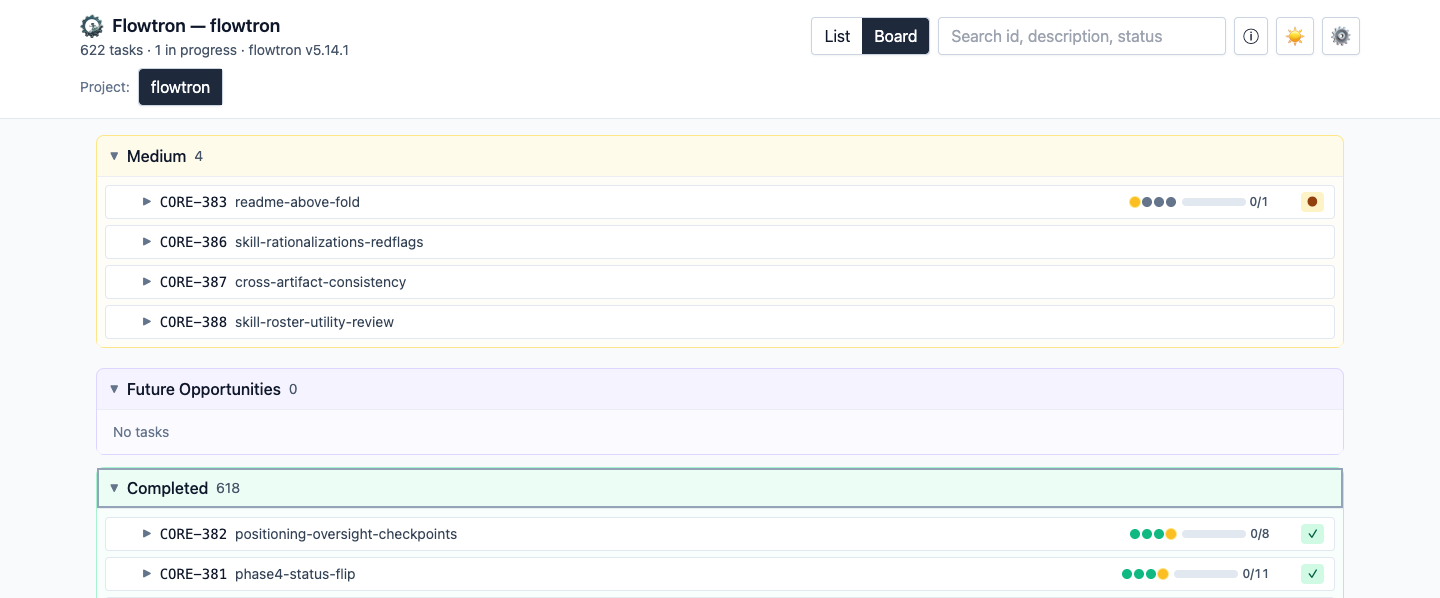
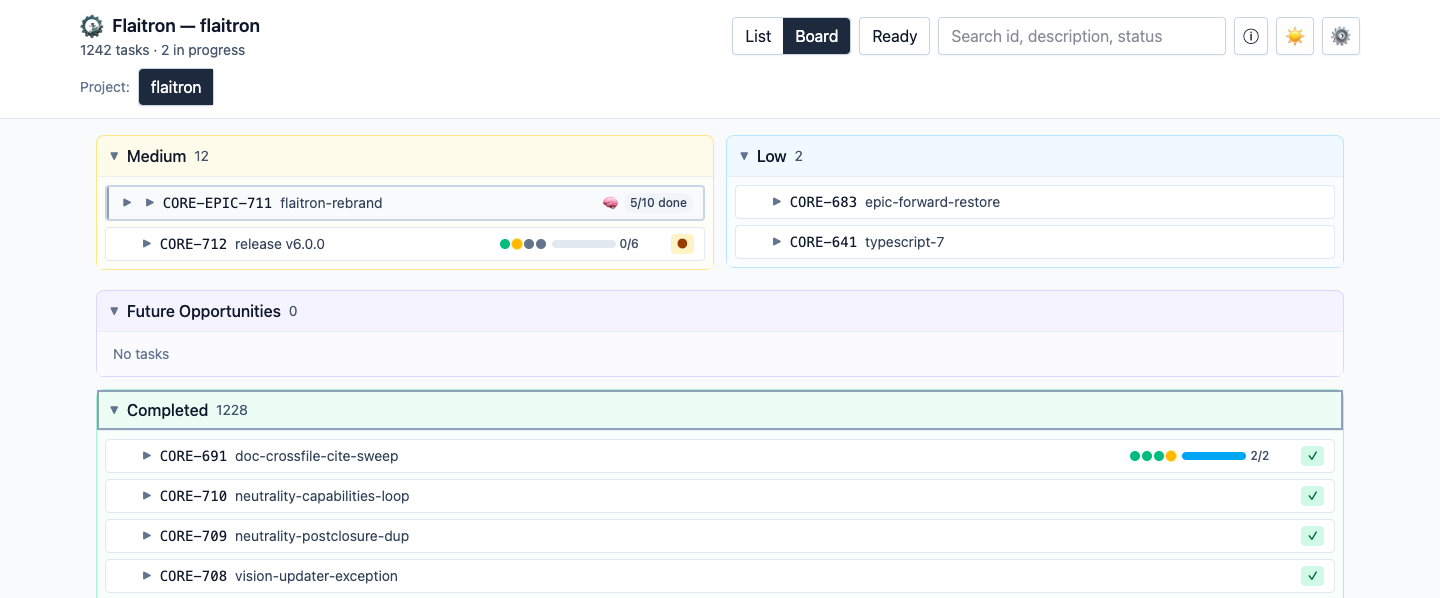
docs: CORE-711.9 — full-repo flaitron sweep
Text scan found no unfenced flowtron (CORE-711.4 had covered it); the
one live miss was the README hero viz-board.png, re-captured on
flaitron. Adds the canonical README "Formerly flowtron" note and links
VERSION-HISTORY, HARNESS-SURVEY and CODEX-VERIFICATION to it.

diff --git a/.flaitron/tasknote/archive/core/CORE-711.9.md b/.flaitron/tasknote/archive/core/CORE-711.9.md
@@ -1,0 +1,164 @@
+---
+title: full-repo flaitron sweep
+status: completed
+tags: []
+created: 2026-10-04
+due:
+related-tasks: [CORE-EPIC-711, CORE-711.4, CORE-711.5, CORE-712, CORE-711.N]
+touches:
+  - README.md
+  - docs/VERSION-HISTORY.md
+  - docs/CODEX-VERIFICATION.md
+  - docs/HARNESS-SURVEY.md
+  - .flaitron/screenshots/viz-board.png
+  - .flaitron/PLAN.md
+---
+
+# CORE-711.9 | full-repo flaitron sweep
+
+[← PLAN.md](../PLAN.md) · ✅ Completed 2026-10-04 · 🔗 [[CORE-EPIC-711]] · [[CORE-711.4]] · [[CORE-712]]
+
+## 🎯 Goal
+
+Every tracked file — text and image — is free of live `flowtron` references outside the deliberate fences, and one canonical "formerly flowtron" note in `README.md` is the place other surfaces point to.
+
+## ✅ Acceptance
+
+- [x] README carries one canonical note: a one-line pointer under the tagline linking to a `### Formerly flowtron` heading in §Version that holds the rename sentence — `grep -c '^### Formerly flowtron$' README.md` = 1 and `grep -c '(#formerly-flowtron)' README.md` = 1
+- [x] The surfaces that must clarify the old name point at that anchor: VERSION-HISTORY header, CODEX-VERIFICATION header, HARNESS-SURVEY header — `grep -l 'README.md#formerly-flowtron' docs/VERSION-HISTORY.md docs/CODEX-VERIFICATION.md docs/HARNESS-SURVEY.md | wc -l` = 3
+- [x] README hero `.flaitron/screenshots/viz-board.png` re-captured from an isolated single-project workspace: renders flaitron, no other project names, 1440×598 — `file .flaitron/screenshots/viz-board.png` + `👁` (image content is not grep-able)
+- [x] No unfenced text `flowtron` in the tree — `git grep -il flowtron -- ':!.flaitron/tasknote/archive' ':!.flaitron/PLAN-ARCHIVE.md'` prints exactly the Discovery Notes inventory (20 files, `README.md` already among them) plus this note once tracked; each added hit is the canonical note or a pointer — `judgment` on the residual list
+- [x] CI drift job's local run stays green (Pair Q link/path resolution covers the new anchors) — the `drift` job's `run:` blocks under `bash -e` → 0
+
+## 🧩 Subtasks
+
+- [x] README: one-line note under the tagline; turn §Version's rename sentence into `### Formerly flowtron`
+- [x] Pointers: VERSION-HISTORY L3 (link its existing parenthetical), CODEX-VERIFICATION + HARNESS-SURVEY headers (one sentence each)
+- [x] Re-capture `viz-board.png` per CORE-383's recipe (isolated workspace symlink → `FLAITRON_VIZ_WORKSPACE`, dev server :5120, Playwright 1440×598, Completed expanded); stop the server
+- [x] Residual grep + CI drift job locally
+
+## 🔗 Related
+
+- [[CORE-EPIC-711]] — parent epic
+- [[CORE-711.4]] — ran the 111-file text sweep; its §Fence is the baseline this task re-checks
+- [[CORE-711.5]] — GitHub + folder renames (predecessor; URL and path now final)
+- [[CORE-712]] — v6.0.0 cut, blocked-by this task
+- [[CORE-711.N]] — terminal audit; repeats the zero-stray grep
+
+---
+
+## 📝 Phase 1: Discovery
+
+- [x] Reviewed the task entry in PLAN.md
+
+- [x] **Relevance Assessment**
+
+  **Verdict:** Proceed
+  **Rationale:** .5 closed (repo URL + folder final). The text sweep in .4 left no unfenced text hit, but the image surface was never checked — the README hero screenshot still renders the old name — and the canonical transition note does not exist yet.
+
+- [x] Read relevant source files — when the read set is broad or its shape is unknown, consider isolating the search in a **probe** (`templates/subagent-probe-template.md`) and recording only its distilled return in Discovery Notes
+
+- [x] **Best Practices Review** — for code or module-boundary work, identified touched responsibilities, dependency direction, existing abstractions, nearby duplication, and any required in-scope refactor or deferred cleanup (otherwise `N/A` with reason) — `N/A`, docs + one image asset; no code
+
+- [x] **Archive skim** — skim `.flaitron/tasknote/archive/<area>/` for prior tasknotes that touched the source paths in scope (prefer YAML `touches:` when set); also follow Related / `supersedes` / ⚠ pointers; when the grep returns more than a handful of notes (~3 is a fair line), prefer handing the reading to a **probe**; log relevant findings in Discovery Notes before re-interpreting the task; an absent or empty `archive/<area>/` is a prompt to re-check `<area>` against the README table before logging "no prior tasknotes" — a derived-and-wrong folder is indistinguishable from a genuinely empty one
+
+- [x] **Drift check** — file paths, line numbers, function names, and root-cause hypotheses cited in the task description still match current code, **and** the plan this tasknote is forming neither contradicts a SPEC contract nor diverges from its `PLAN.md` line (read both, don't recall them); flag any drift before re-interpreting the task
+
+- [x] Asked clarifying questions OR logged "No clarifications needed" with explicit assumptions
+
+- [x] Subtasks above populated with concrete, ordered steps, and YAML `touches:` declared with the paths this task expects to edit (omit only on a task with no file deliverable)
+
+**Discovery Notes:**
+
+**Text inventory.** `git grep -Il -i flowtron` outside `.flaitron/tasknote/archive/` + `PLAN-ARCHIVE.md` → 20 files; no tracked filename contains `flowtron`. Every hit falls inside CORE-711.4's §Fence or the PLAN line's fence list:
+- PLAN.md — open CORE-711 rows (describe the rename) + closed rows.
+- CORE-712.md — another task's active note; its hits are the rename's own tag-message draft.
+- VERSION-HISTORY entries; MIGRATION v5.x + v4.x recipes and the retired-skill `ft-flowtron` row; CONTEXT-BUDGET L259 + ci.yml L156 (`ft-flowtron`, a retired skill name).
+- ci.yml L436/462-463 (Pair Q pre-rename resolution); step-7.1-mirror-pairs L244 (its Reads: line).
+- SECURITY L180/225, `/ft-update` skill + command (pre-rename layout stop); PLATFORMS L152 ("`.flowtron/core/` before v6.0.0").
+- `tools/update-adopters*` (pre-rename reads); `viz/src/parser*`, `SPEC/plan-parser.md`, `SPEC/fixtures/plan/exclusions.md` (`flowtron v5.2.0 bump` legacy fixture).
+- `docs/CODEX-VERIFICATION.md` (dated CORE-677 receipt, pinned to v5.33.0 SHA `7b35a17`) and `docs/HARNESS-SURVEY.md` dated passes — .4 fenced both wholesale.
+
+**Image inventory** (not reachable by grep; viewed each): `LOGO.webp`, `viz/public/LOGO.webp`, `viz/public/favicon.png`, `brand/*.svg` carry no wordmark. **`.flaitron/screenshots/viz-board.png` — the README hero image — renders "Flowtron — flowtron", project chip `flowtron`, "flowtron v5.14.1", 622 tasks.** Live, user-facing, and stale; the README caption beside it says "flaitron's own PLAN.md".
+
+**Residual live-path gap.** CODEX-VERIFICATION's §Reproduce (L154-236) and §"Reproduce the fixture and prompts" are runnable recipes; their local clone path `/Users/fakeneuron/Code/flowtron` (L48, L173) stopped resolving at .5. Their `.flowtron/core` adopter paths are correct *at the pinned v5.33.0 SHA* the receipt reproduces.
+
+**Transition note today.** README §Version (L325-330) already carries the rename sentence + MIGRATION link, but there is no single anchored note, and VERSION-HISTORY L3 / PLATFORMS L152 restate it inline with no pointer. The fenced dated docs (CODEX-VERIFICATION, HARNESS-SURVEY) have no pointer at all.
+
+**Archive skim.** `ls archive/core/` → 912 notes; area confirmed `CORE-*` → `archive/core/` from the README table. Sibling notes CORE-711.1–.5 read: .4 is load-bearing — perl sweep (`FLOWTRON`/`Flowtron`/`flowtron` → flaitron) over 111 files, sentinels `ft-flowtron`, `.flowtron/flowtron`, `flowtron v5.2.0 bump`; §Fence items 1-4 (VERSION-HISTORY entries, CODEX-VERIFICATION + HARNESS-SURVEY dated passes, archives, MIGRATION v4 + v6 recipe names). .2 fenced the parser fixture. CORE-712's park note: .9 exists because "no full-repo sweep had run" before the cut.
+
+**Drift check.** PLAN line matches the tree; .5 is closed. The fence list in the PLAN line omits two .4-approved fences — CODEX-VERIFICATION and HARNESS-SURVEY dated passes, and the `ft-flowtron` retired-skill name — which this task inherits rather than re-litigates. No SPEC contract touched (archive write-once honored).
+
+**Clarifications (AskUserQuestion, 2026-10-04).**
+- *Operator stance (governs every judgment call):* don't rewrite records from when the repo really was flowtron; every forward-facing document is fully rebranded; `flowtron` survives only where it clarifies the old name — **sparingly**.
+- Screenshot → operator deferred to judgment → **re-capture now**: it is the README hero, forward-facing, and contradicts its own caption.
+- CODEX-VERIFICATION → **pointer only**: one header line; body (incl. Reproduce clone paths) untouched.
+- Transition note → **top line + anchored `### Formerly flowtron` section** in §Version; other surfaces point at the anchor.
+- PLATFORMS L152 "(`.flowtron/core/` before v6.0.0)" stays — it is exactly the needed clarification (old symlink targets), and d43ad4d2 placed it deliberately. MIGRATION's v5.x section already names the old name in its heading; no pointer added there (sparing).
+
+## 🛠 Phase 2: Execution
+
+- [x] **Pattern survey** — extended an established pattern or justified a new shape; checked DRY and single-responsibility (SRP) boundaries; preferred composition when it reduced coupling — one canonical anchor + link pointers (DRY: the rename is stated once; VERSION-HISTORY's existing parenthetical became the link rather than a second statement); screenshot re-shot with CORE-383's reusable recipe
+
+- [x] **Minimal refactor gate** — refactored only for Acceptance or to prevent duplication, obscured responsibility, or a dependency-boundary violation in the touched path; recorded the reason and deferred unrelated cleanup — `N/A`, no refactor; dated-record bodies untouched per operator stance
+
+- [x] Implemented the minimal solution
+
+- [x] Updated/added tests for non-trivial behavior — `N/A`, markdown + one image asset
+
+**Implementation Notes:**
+
+- `README.md`: tagline gains `Formerly flowtron — [renamed in v6.0.0](#formerly-flowtron).`; §Version's rename sentence moves under a new `### Formerly flowtron` (old repo + dir names, the hard cut, "pre-rename records keep the old name", MIGRATION link).
+- Pointers (one clause each, linking `../README.md#formerly-flowtron`): VERSION-HISTORY L3 (existing parenthetical linked, no new mention), HARNESS-SURVEY header, CODEX-VERIFICATION header (names that its reproduce steps use the pinned v5.33.0 checkout's paths — the operator's "pointer only" choice).
+- Not touched (sparing): PLATFORMS L152 parenthetical; MIGRATION v5.x heading already names the old dir.
+- `viz-board.png` re-captured: isolated workspace `<scratchpad>/viz-workspace/flaitron → ~/Code/flaitron`, `FLAITRON_VIZ_WORKSPACE=… npm --prefix viz run dev`, Playwright 1440×598, Board view, Completed expanded (List view was rejected — it auto-expands CORE-EPIC-711, whose open rows quote `flowtron` paths). Result: "Flaitron — flaitron", 1242 tasks, single project chip, 71,733 B (was 64 KB). Drafts kept outside the repo in `~/Code/_screenshots/flaitron/`. Server stopped, browser closed.
+
+## 🧪 Phase 3: Testing & Linting
+
+- [x] Ran targeted test suite for changed code — `N/A`, markdown + image; CI drift job stands in (below)
+
+- [x] Ran lint/type-check on changed code — `git diff --check` → clean
+
+- [x] **Verification receipt** — recorded each Acceptance verify command in Testing Notes as `command → exit code`, with the first failure line when non-zero; and, for changed code, confirmed no avoidable duplication, dead code, unexplained complexity, unnecessary public-surface growth, or stale code-facing documentation (otherwise `N/A` with reason)
+
+- [x] **External review** — a context that did not write the diff graded it against `## ✅ Acceptance`, and every finding is recorded below with its disposition (**blocker** → back to Phase 2; **note** → fixed or filed). `N/A` with a one-line reason when the diff is too small to grade
+
+- [x] (frontend) Asked the user for visual confirmation (emphasized `👁 **CONFIRM**` ask on its own line) — asked at the 📦 gate for the re-captured hero image (no UI code changed)
+
+**Choosing a test strategy:** see SPEC.md §"🧪 Phase 3: Testing & Linting".
+
+**Testing Notes:**
+
+Receipts:
+- `grep -c '^### Formerly flowtron$' README.md` → 1; `grep -c '(#formerly-flowtron)' README.md` → 1
+- `grep -l 'README.md#formerly-flowtron' docs/VERSION-HISTORY.md docs/CODEX-VERIFICATION.md docs/HARNESS-SURVEY.md | wc -l` → 3
+- `file .flaitron/screenshots/viz-board.png` → PNG 1440 x 598; content viewed (Flaitron — flaitron, single project chip, no `flowtron` text) → 👁 at the gate
+- `git grep -il flowtron -- ':!.flaitron/tasknote/archive' ':!.flaitron/PLAN-ARCHIVE.md' | wc -l` → 20, same set as the Discovery inventory; `git diff -U0` added `flowtron` lines are only the README note + three pointers
+- CI `drift` job, 15 `run: |` blocks extracted from `ci.yml` and run under `bash -e` → 0 each (Pair Q resolves the new anchors)
+- `git diff --check` → clean
+
+Structural quality: no code; no duplication (the rename is stated once, other surfaces link to it).
+
+External review (`/code-review medium`): the reviewer read `origin/main...HEAD` + working tree, which is wider than this task's diff. Graded against Acceptance:
+- **note** — CORE-712's PLAN row `Blocked by [[CORE-711.5]] + [[CORE-711.9]]` and its frontmatter `blocked-by:` still list CORE-711.5 (closed), so viz shows a stale blocked chip. The text came from earlier commits, not this diff. SPEC/blocked.md §"Re-scope to blocked" lets a blocker's own closure strike its wikilink *on operator confirmation* → queued as an in-📦 prompt (strike both, since this closure clears the last blocker).
+- The reviewer confirmed the anchor, the three pointers, and the acceptance counts.
+
+## 🚀 Phase 4: Closure
+
+- [x] **Doc-drift sweep** — for each entry in `.flaitron/tasknote/README.md` §"AI-referenced docs", state "no change" or the update
+
+- [x] Closed — every `## ✅ Acceptance` criterion ticked or explicitly annotated (`N/A` / not-met with a one-line reason), YAML `status:` flipped to `completed`, PLAN.md line flipped to stub form `Completed YYYY-MM-DD.` and placed (standalone → top of `## Completed`; epic child → kept nested beneath its active parent — see SPEC/plan-filing.md §"`## Completed` archive convention" if unclear), then tasknote moved to `.flaitron/tasknote/archive/<area>/`
+
+- [x] **Evidence-based recap** drafted — changed files/LOC where meaningful, verification commands/results, refactors made or deferred with rationale, documentation verdict, the `touches:` scope reconciliation (`git diff --name-only` vs declared; name undeclared paths), and concrete maintainability effect (surfaces at the 📦 ready-to-commit gate, or inline on conditional skip)
+
+- [x] **Learnings** — did this task teach something the always-loaded layer (AGENTS.md / README §AI-referenced docs) should carry? `N/A` or the line
+
+**Final Summary:** The full-repo scan found no unfenced text `flowtron`: CORE-711.4's 111-file sweep plus .2/.3 already covered it, and all 20 residual files are deliberate fences. The one live miss was an image that grep can't see. The README hero `viz-board.png` still rendered "Flowtron — flowtron v5.14.1"; it was re-captured on flaitron. Added the canonical README note (tagline line + `### Formerly flowtron` in §Version) and linked VERSION-HISTORY, CODEX-VERIFICATION and HARNESS-SURVEY to it. Six paths changed, about +16/−5 markdown lines plus one PNG (64 → 72 KB).
+
+Doc-drift sweep: `README.md` — updated (this task). `AGENTS.md`, `SPEC.md`, the four snippets, `docs/CONVENTIONS.md` (its §"Version" cite concerns tag notes, which are still in place), `CONTRIBUTING.md`, `SECURITY.md` (fenced migrate bullets), `docs/AGENT-NEUTRALITY.md`, `docs/PLATFORMS.md` (L152 parenthetical kept as needed clarification), `claude/CAPABILITIES.md`, `docs/AGENT-COMPAT.md`, `docs/EXTERNAL-AGENTS.md` (no stable-surface row moved → no caller row), `docs/WORKTREES.md`, `docs/VISION.md`, `docs/MIGRATION.md` (fenced recipes) — no change.
+
+`touches:` reconciliation: `git diff --name-only` = README, CODEX-VERIFICATION, HARNESS-SURVEY, VERSION-HISTORY, viz-board.png, PLAN.md, all declared; plus this tasknote. If the operator confirms the CORE-712 blocker strike at the 📦 gate, `.flaitron/tasknote/CORE-712.md` is the one undeclared path.
+
+Learnings: the image surface is never covered by a text sweep. CORE-711.N's zero-stray grep should also view the tracked images (5 files). That belongs on the .N audit, not the always-loaded layer, so it is recorded here for .N to pick up.
+
+**Archived:** 2026-10-04

diff --git a/.flaitron/PLAN.md b/.flaitron/PLAN.md
@@ -24,7 +24,7 @@ See [SPEC.md](../SPEC.md) for the canonical workflow contract.
   - [ ] **CORE-711.6** [light]🔧 | natabula handoff — File NAT ticket(s) in natabula's PLAN so its `configs/` deposits, `natabula-align` layout check, fleet scripts, skills, docs and fixtures move to `.flaitron/` before the wave. After .4; parallel with .5.
   - [ ] **CORE-711.7** [heavy]🧠 | fleet wave — Dry-run then `--apply` the .3 migrate mode across all 22 adopters on one confirm; natabula layer-refresh carries the deposits; rewrite adopter prose `.flowtron/` paths and audit-fork `flowtron-reconciled:` / `flowtron-tracks:` keys outside archives; verify with `natabula-align`. Commits stay local, no bulk push. caobunga CBN-278 (`.flaitron/` reader layout) lands first. After CORE-712 (the v6.0.0 tag) + .6.
   - [ ] **CORE-711.8** [light]🔧 | global + external refs — judedelparte site (`content/apps/flowtron.yml`, app icon, tests, sibling app ymls), `~/.claude` CLAUDE.md L44 + settings.json L105 + guard hook, `~/Code/CLAUDE.md`, and `~/fakeneuron/` once the operator adds it as an access root. After .5.
-  - [ ] **CORE-711.9** [medium]🧩 | full-repo flaitron sweep — Scan every tracked file, not just the AI-referenced doc set, for `flowtron` / `Flowtron` / `FLOWTRON`; rename live references to flaitron, keeping only the deliberate fences (archived tasknotes, `PLAN-ARCHIVE.md`, closed PLAN rows, MIGRATION's v5.x/v4.x recipes, VERSION-HISTORY entries, `tools/update-adopters*` pre-rename reads, Pair Q's pre-rename resolution, the legacy parser fixture); add one canonical "formerly flowtron" transition note in `README.md` that other surfaces point to. After .5, so the repo URL and folder path are final.
+  - [x] **CORE-711.9** [medium]🧩 | full-repo flaitron sweep — Completed 2026-10-04.
   - [ ] **CORE-711.N** [heavy]🧠 | flaitron-rebrand audit — Final-subtask audit per SPEC/epic.md (fixed doc-drift sweep acceptance line), plus a zero-stray-`flowtron` grep outside the legacy-tasknote fence, CORE-711.4's historical fence, and `tools/update-adopters*`' deliberate pre-rename reads. Filed now with the reserved terminal `.N` suffix.
 
 - [ ] **CORE-712** [medium]🧩 | release v6.0.0 — Cut v6.0.0 major release tagging the flaitron rebrand (CORE-711.2 + CORE-711.3 + CORE-711.4 + CORE-711.9, hard cut) + CORE-691 since v5.35.0. Blocked by [[CORE-711.5]] + [[CORE-711.9]]; re-dogfood every agent at the cut. Parked 2026-10-04 mid-cut; the tasknote carries the locked tag-message draft.

diff --git a/README.md b/README.md
@@ -12,6 +12,7 @@
 
 A lightweight, project-agnostic tasknote system for solo AI-assisted coding.
 One source of truth, consumed by adopting projects via git submodule.
+Formerly flowtron — [renamed in v6.0.0](#formerly-flowtron).
 
 The goal: catch the agent before it wastes a session. The four phases, the
 relevance gate, and the acceptance criteria are the checkpoints where you
@@ -323,9 +324,15 @@ major bumps (no separate `CHANGELOG.md`).
 Flaitron is solo-maintained with a personal adopter fleet. The major version
 number counts breaking changes from the May 2026 rapid-iteration period
 (v1.0.0 → v5.0.0 in 25 days), not project maturity — the contract was
-break-free from v5.0.0 (2026-06-01) until v6.0.0, the one-time
-flowtron → flaitron rename (`.flowtron/` → `.flaitron/`). Existing adopters
-follow
+break-free from v5.0.0 (2026-06-01) until v6.0.0, the one-time rename below.
+
+### Formerly flowtron
+
+Until v6.0.0 this project was named flowtron: the repository was
+`fakeneuron/flowtron` and the convention directory `.flowtron/`. v6.0.0
+renamed both to flaitron (`.flaitron/`), with no old-name fallback. Release
+history, archived tasknotes, and dated records written before the rename keep
+the old name. Existing adopters follow
 [docs/MIGRATION.md](docs/MIGRATION.md) §"Upgrading an existing adopter from v5.x".
 
 ## License

diff --git a/docs/HARNESS-SURVEY.md b/docs/HARNESS-SURVEY.md
@@ -5,7 +5,8 @@ frameworks, and trackers. Each pass is a dated section; a later pass appends
 rather than rewrites, so the record shows what the field looked like when a
 decision was made. Read when planning a survey pass, when a "should flaitron
 do X?" question comes up, or when [`docs/VISION.md`](VISION.md) §"What we
-won't accept" needs a current counter-example.
+won't accept" needs a current counter-example. Passes dated before v6.0.0
+call the project by its [former name](../README.md#formerly-flowtron).
 
 Method for every pass: read `SPEC.md` + `docs/VISION.md` first, then the
 field, then rank gaps by *would it change task outcomes* and overkill by

diff --git a/docs/CODEX-VERIFICATION.md b/docs/CODEX-VERIFICATION.md
@@ -3,7 +3,9 @@
 CORE-677.2 installation receipt, 2026-10-01. This is a dated observation,
 not a second install roster. Canonical commands remain in
 [codex/AGENTS-snippet.md](../codex/AGENTS-snippet.md); policy remains in
-[PLATFORMS.md](PLATFORMS.md#installed-surface-policy).
+[PLATFORMS.md](PLATFORMS.md#installed-surface-policy). It predates v6.0.0, so
+its names and paths — reproduce steps included — are those of the pinned
+v5.33.0 checkout under the [former name](../README.md#formerly-flowtron).
 
 Fresh Codex discovery now exposes all 12 shipped wrappers in the self-host
 checkout and the eight expected repo skills in an isolated pinned adopter.

diff --git a/docs/VERSION-HISTORY.md b/docs/VERSION-HISTORY.md
@@ -1,6 +1,6 @@
 # Version history
 
-Curated, moderately-coarse highlights of flaitron releases (named flowtron before v6.0.0). Newest first.
+Curated, moderately-coarse highlights of flaitron releases ([named flowtron before v6.0.0](../README.md#formerly-flowtron)). Newest first.
 
 This is **not** a [Keep a Changelog](https://keepachangelog.com/) file and not
 a substitute for git tags. Full per-release notes, change groups, and adopter
